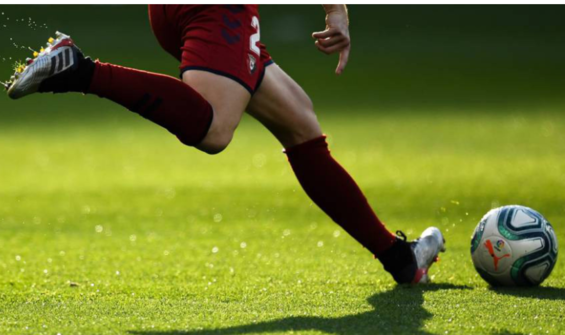
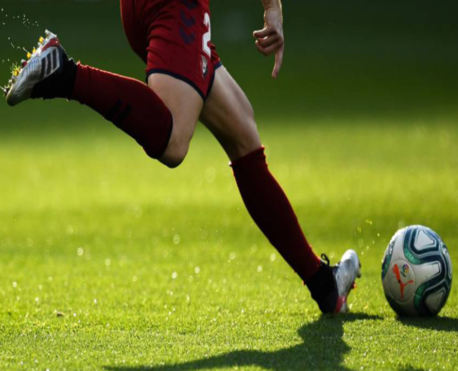
redimensionar imgs

diff --git a/python/uimain/ventana_inicio.py b/python/uimain/ventana_inicio.py
@@ -135,9 +135,9 @@ def show_names(e):
     leidy.pack()
     oscar.pack()
     juan.pack()
-    label_photo1['image'] = photo_leidy
-    label_photo2['image'] = photo_oscar
-    label_photo3['image'] = photo_juan
+    #label_photo1['image'] = photo_leidy
+    #label_photo2['image'] = photo_oscar
+    #label_photo3['image'] = photo_juan
     frame_P6.pack(fill="both", expand=True, padx=5, pady=5)
     frame_P5.bind("<Button-1>", show_leidy)
 
@@ -303,7 +303,7 @@ frame_P6 = Frame(master=frame_P2, borderwidth=2, relief="groove")
 frame_P6.pack(fill="both", expand=True, padx=5, pady=5)
 
 # ----------- Posicionamiento Grid de fotos -----------
-# Foto Leidy
+"""# Foto Leidy
 label_leidy = Label(master=frame_P6)
 photo_leidy = PhotoImage(file='photos/leidy.png')
 photo_leidy = photo_leidy.subsample(3)
@@ -320,7 +320,7 @@ label_juan = Label(master=frame_P6)
 photo_juan = PhotoImage(file='photos/juandaniel.png')
 photo_juan = photo_juan.subsample(4)
 label_juan['image'] = photo_juan
-label_juan.grid(row=0, column=3)
+label_juan.grid(row=0, column=3)"""
 
 # ----------- Posicionamiento Grid de fotos2 -----------
 # Cargar fotos Leidy
